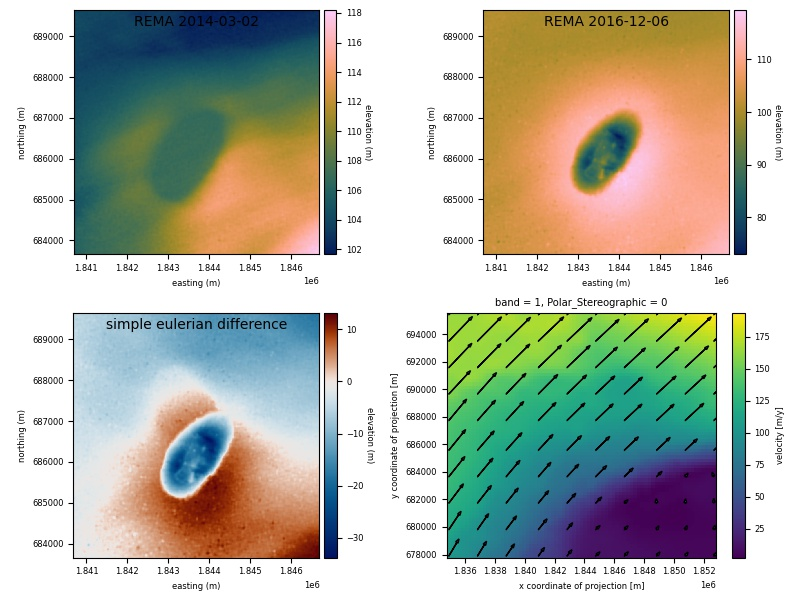
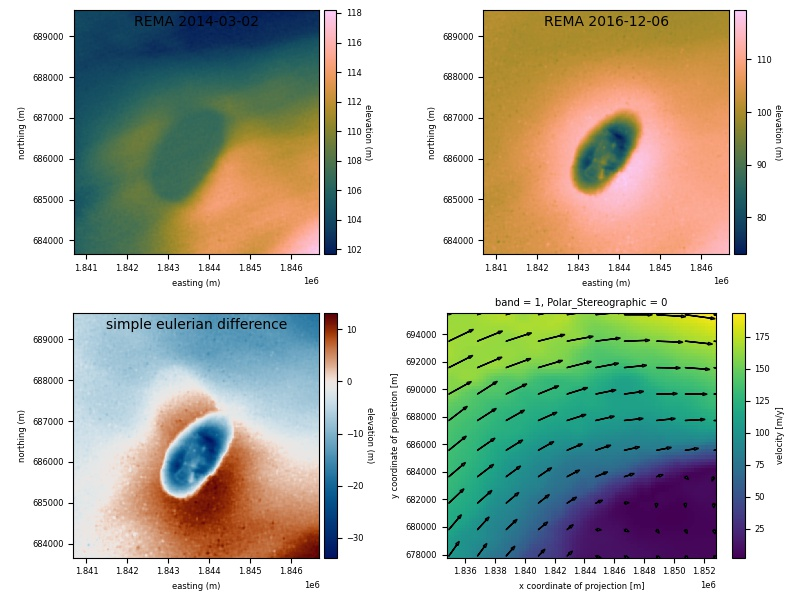
fix error in velocity plot

Changed region(s): [[0.5625, 0.51, 0.9062, 0.87], [0.7812, 0.78, 0.8125, 0.81]]

diff --git a/utils/lagrange.py b/utils/lagrange.py
@@ -44,7 +44,6 @@ def inpaint_nans(array):
 
 
 def load_rema_and_velocity_data(path, fn1, fn2, velocity_data_fn, show_plot=True):
-    
     date1 = fn1[15:25]
     date2 = fn2[15:25]
 
@@ -116,8 +115,8 @@ def load_rema_and_velocity_data(path, fn1, fn2, velocity_data_fn, show_plot=True
             ys.append(YY[YA[i],XA[i]])
             us.append(vx[YA[i],XA[i]])
             vs.append(vy[YA[i],XA[i]])
-        vs = np.sqrt(np.array(us)**2 + np.array(vs)**2)
-        scale_factor = np.max((xdist,ydist)) / np.max(vs) * 0.95
+        vvs = np.sqrt(np.array(us)**2 + np.array(vs)**2)
+        scale_factor = np.max((xdist,ydist)) / np.max(vvs) * 0.95
         for i in range(len(xs)):    
             axs[1,1].arrow(xs[i], ys[i], us[i]*scale_factor, vs[i]*scale_factor, head_width=xdist/10)
 
@@ -131,7 +130,7 @@ def load_rema_and_velocity_data(path, fn1, fn2, velocity_data_fn, show_plot=True
             cbar.ax.set_ylabel('elevation (m)', rotation=270)
             ax.set_xlabel('easting (m)')
             ax.set_ylabel('northing (m)')
-        
+
         axs[0,0].text(0.5, 0.95, 'REMA %s' % date1 ,transform=axs[0,0].transAxes, ha='center', va='center', fontsize=10)
         axs[0,1].text(0.5, 0.95, 'REMA %s' % date2 ,transform=axs[0,1].transAxes, ha='center', va='center', fontsize=10)
         axs[1,0].text(0.5, 0.95, 'simple eulerian difference',transform=axs[1,0].transAxes, ha='center', va='center', fontsize=10)
